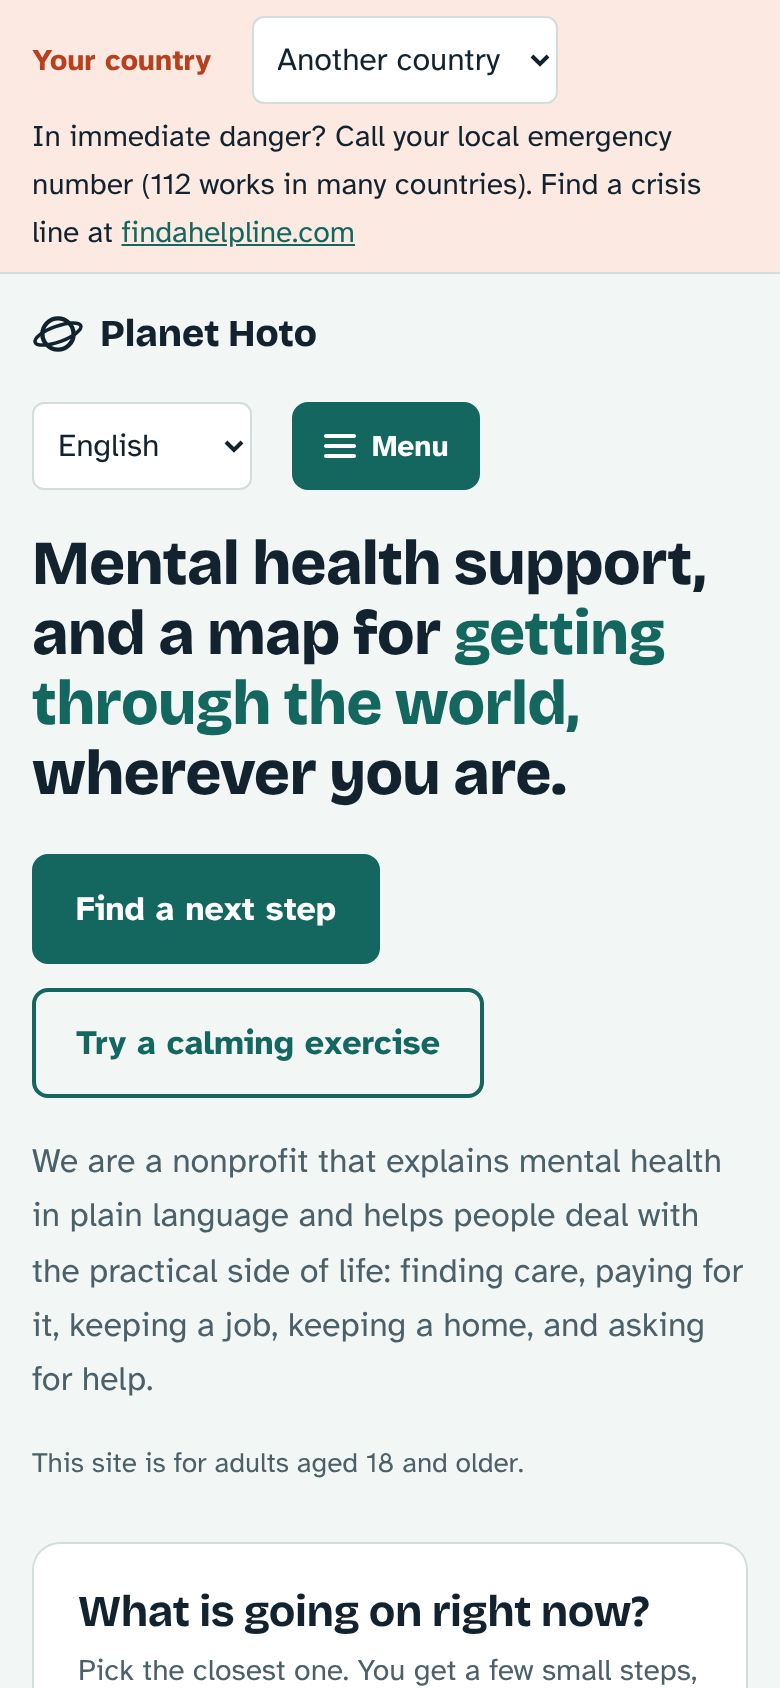
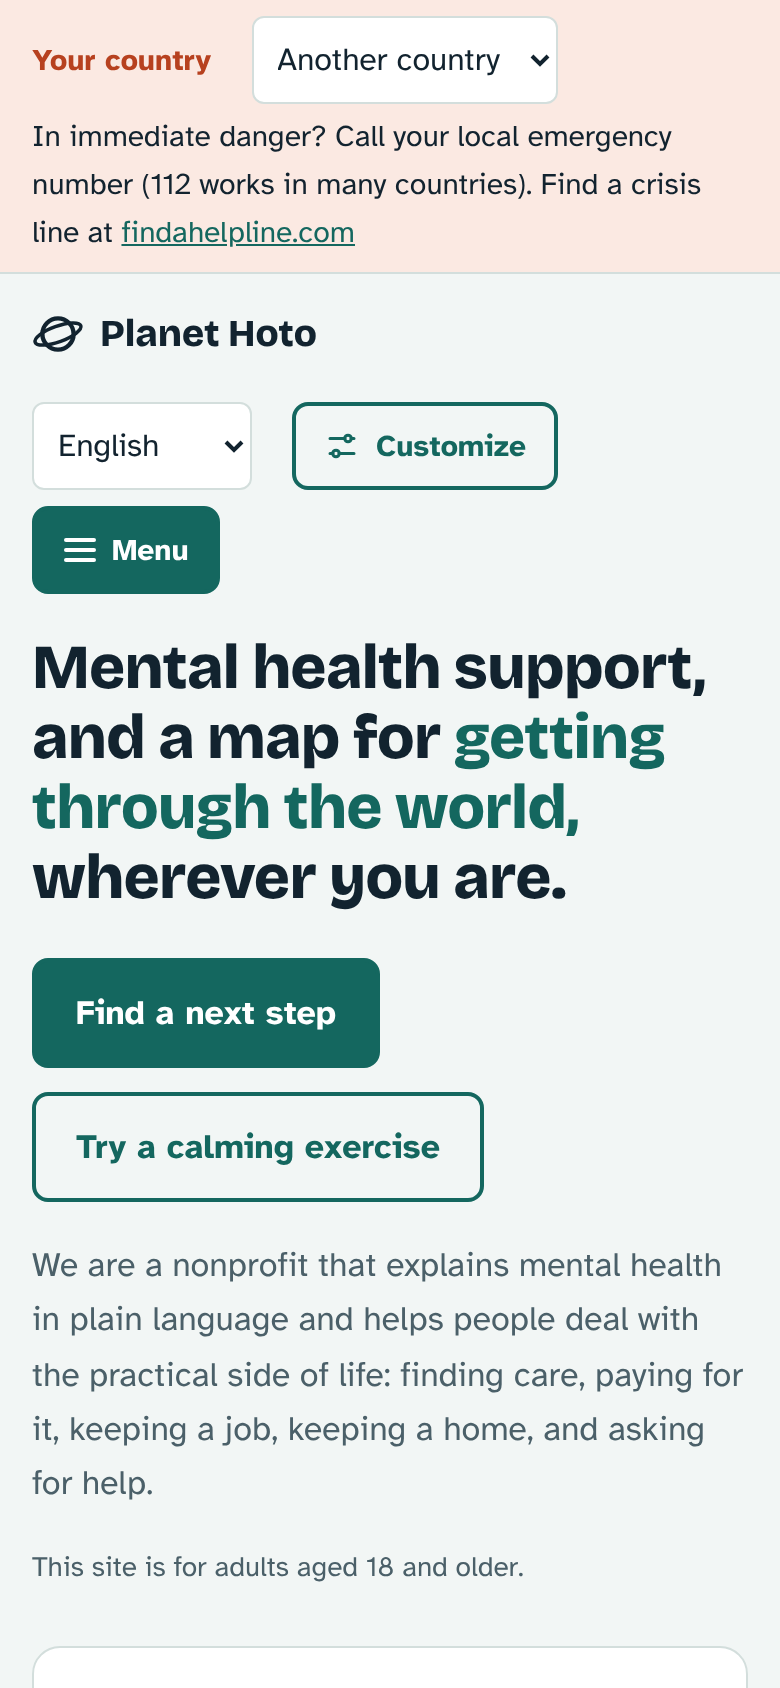
Fold repo-launch-polish into main: regenerated screenshots and social card
Squashed from the repo-launch-polish branch: new desktop and mobile
screenshots, new social card, README wording polish, and the head-tag
order from that branch. Footer teachers-line translations are kept.

Changed region(s): [[0.0308, 0.2156, 0.9538, 0.8934], [0.0308, 0.9242, 0.8923, 1.0], [0.7077, 0.2464, 0.7385, 0.2773]]

diff --git a/docs/index.html b/docs/index.html
@@ -1,4 +1,4 @@
-<!doctype html><html lang="en"><head><meta charset="utf-8"><meta name="viewport" content="width=device-width,initial-scale=1,viewport-fit=cover"><title>Planet Hoto: plain-language mental health help</title><script src="customize.js"></script><meta name="description" content="Free, plain-language mental health guides in seven languages: finding care, paying for it, keeping a job and a home, and asking for help. Nothing is saved or tracked."><link rel="canonical" href="https://hoto.lol/"><meta property="og:type" content="website"><meta property="og:site_name" content="Planet Hoto"><meta property="og:title" content="Planet Hoto: plain-language mental health help"><meta property="og:description" content="Free guides in seven languages for the practical side of mental health: finding care, paying for it, work, housing, and asking for help."><meta property="og:url" content="https://hoto.lol/"><meta property="og:image" content="https://hoto.lol/assets/social-card.png"><meta property="og:image:width" content="1200"><meta property="og:image:height" content="630"><meta name="twitter:card" content="summary_large_image"><meta name="theme-color" content="#14675f"><style>:root{color-scheme:light;box-sizing:border-box;padding-top:env(safe-area-inset-top,0px);padding-bottom:env(safe-area-inset-bottom,0px)}html{scroll-padding-top:env(safe-area-inset-top,0px)}body{margin:0;padding:0;font:14px -apple-system,BlinkMacSystemFont,sans-serif;background:#fff;color:#000}img{max-width:100%}[hidden]:not([hidden=until-found i]){display:none!important}</style></head><body>
+<!doctype html><html lang="en"><head><meta charset="utf-8"><meta name="viewport" content="width=device-width,initial-scale=1,viewport-fit=cover"><title>Planet Hoto: plain-language mental health help</title><meta name="description" content="Free, plain-language mental health guides in seven languages: finding care, paying for it, keeping a job and a home, and asking for help. No accounts, no tracking."><link rel="canonical" href="https://hoto.lol/"><meta property="og:type" content="website"><meta property="og:site_name" content="Planet Hoto"><meta property="og:title" content="Planet Hoto: plain-language mental health help"><meta property="og:description" content="Free guides in seven languages for the practical side of mental health: finding care, paying for it, work, housing, and asking for help."><meta property="og:url" content="https://hoto.lol/"><meta property="og:image" content="https://hoto.lol/assets/social-card.png"><meta property="og:image:width" content="1200"><meta property="og:image:height" content="630"><meta name="twitter:card" content="summary_large_image"><meta name="theme-color" content="#14675f"><script src="customize.js"></script><style>:root{color-scheme:light;box-sizing:border-box;padding-top:env(safe-area-inset-top,0px);padding-bottom:env(safe-area-inset-bottom,0px)}html{scroll-padding-top:env(safe-area-inset-top,0px)}body{margin:0;padding:0;font:14px -apple-system,BlinkMacSystemFont,sans-serif;background:#fff;color:#000}img{max-width:100%}[hidden]:not([hidden=until-found i]){display:none!important}</style></head><body>
 <link rel="preconnect" href="https://fonts.googleapis.com">
 <link rel="preconnect" href="https://fonts.gstatic.com" crossorigin>
 <link rel="stylesheet" href="https://fonts.googleapis.com/css2?family=Bricolage+Grotesque:opsz,wght@12..96,500;12..96,700;12..96,800&family=Atkinson+Hyperlegible:ital,wght@0,400;0,700;1,400&family=Lexend:wght@400;700&display=swap">

diff --git a/README.md b/README.md
@@ -5,7 +5,7 @@
 **Plain-language mental health help, for the practical side of life.**
 
 Finding care, paying for it, keeping a job, keeping a home, and asking for help.
-Seven languages. No accounts, no tracking, nothing saved or sent.
+Seven languages. No accounts, no tracking, nothing sent to a server.
 
 [**Visit the site → hoto.lol**](https://hoto.lol) · [Contribute](CONTRIBUTING.md) · [Report a problem](https://github.com/hoto1000/planet-hoto/issues/new/choose)
 
@@ -25,18 +25,18 @@ Feeling better often depends on boring logistics: which kind of professional to 
 - **Grounding and breathing tools** that take under two minutes.
 - **Seven languages**: English, Español, Português, Français, Deutsch, हिन्दी, 日本語.
 - **Private by design**: a static site with no login, no forms that store data, and no analytics in the repo.
-- **Accessible**: Atkinson Hyperlegible type, keyboard focus styles, light and dark themes, and a mobile-first layout.
-- **Customize panel**: theme, text size, font, spacing, motion, sound, and density, saved only in your own browser.
+- **Customize panel**: theme, text size, font, line spacing, motion, sound, and layout density. Choices stay in your browser only.
+- **Accessible**: Atkinson Hyperlegible type, keyboard focus styles, WCAG AA contrast checked in tests, and a mobile-first layout.
 
 <img src="docs/assets/screenshot-mobile.png" alt="Planet Hoto on a phone" width="260">
 
 ## Tech
 
-Plain HTML, CSS, and JavaScript in [`docs/`](docs), served by GitHub Pages. No framework, no build step, no dependencies.
+Plain HTML, CSS, and JavaScript in [`docs/`](docs), served by GitHub Pages. No framework, no build step, no runtime dependencies.
 
 - [`docs/index.html`](docs/index.html): home page (all seven languages, crisis strip, finder, guides, grounding tool, contact).
 - [`docs/avoid-scientology.html`](docs/avoid-scientology.html): a personal page on recognizing and declining Scientology recruiters and front groups.
-- [`docs/customize.css`](docs/customize.css), [`docs/customize.js`](docs/customize.js): the "Customize" panel (theme, text size, font, line spacing, motion, sound, layout density, reset). Choices are kept in `localStorage` under `ph-customize` only: no cookies, no accounts, no network calls. `customize.js` is loaded in `<head>` without `defer` on purpose, so saved choices are on `<html>` before first paint.
+- [`docs/customize.css`](docs/customize.css), [`docs/customize.js`](docs/customize.js): the Customize panel. Choices are kept in `localStorage` under `ph-customize` only: no cookies, no accounts, no network calls. `customize.js` loads in `<head>` without `defer` on purpose, so saved choices apply before first paint.
 
 ### Tests
 
@@ -44,7 +44,7 @@ Plain HTML, CSS, and JavaScript in [`docs/`](docs), served by GitHub Pages. No f
 npm test
 ```
 
-Node's built-in test runner, no dependencies. It covers storage, reset, the page order (skip link, then the 988/911 bar), and WCAG AA contrast for every theme. `tests/e2e/customize.e2e.js` is an optional browser check that needs Playwright and a running preview (see the header of that file).
+Node's built-in test runner, no dependencies. It covers storage, reset, page order (skip link, then the crisis bar), and WCAG AA contrast for every theme. `tests/e2e/customize.e2e.js` is an optional browser check that needs Playwright and a running preview (see the header of that file).
 
 ### Preview locally
 
